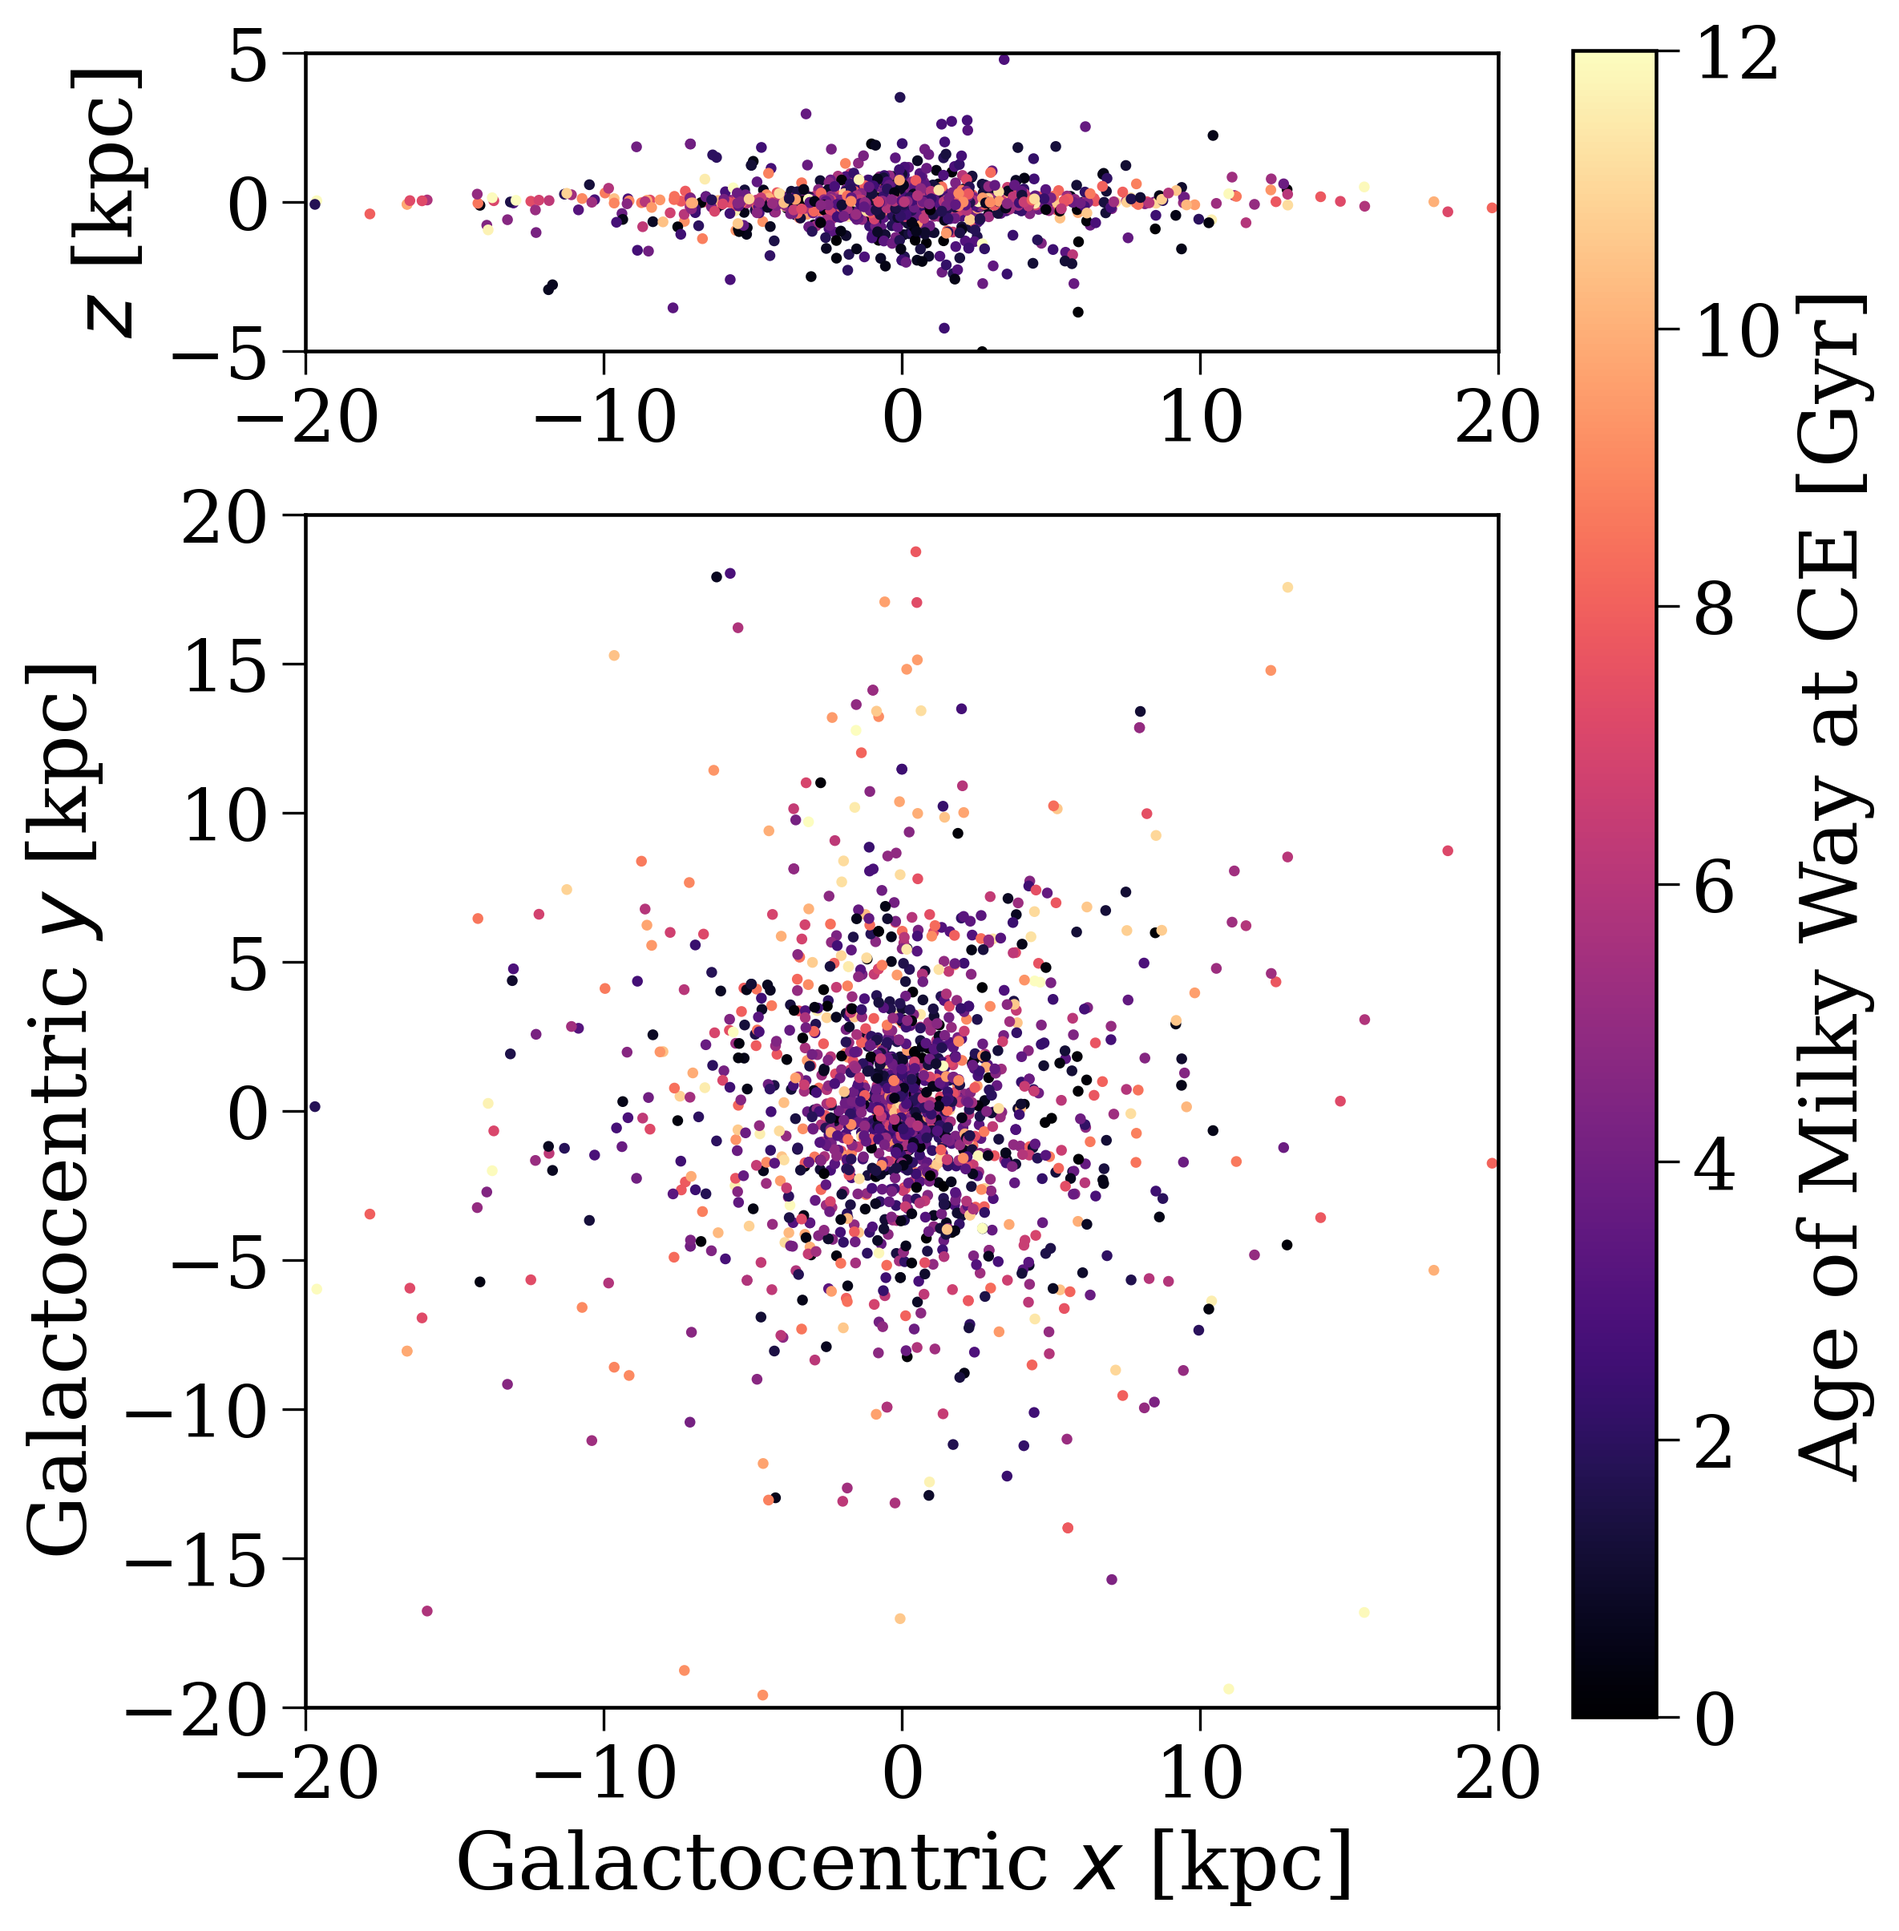
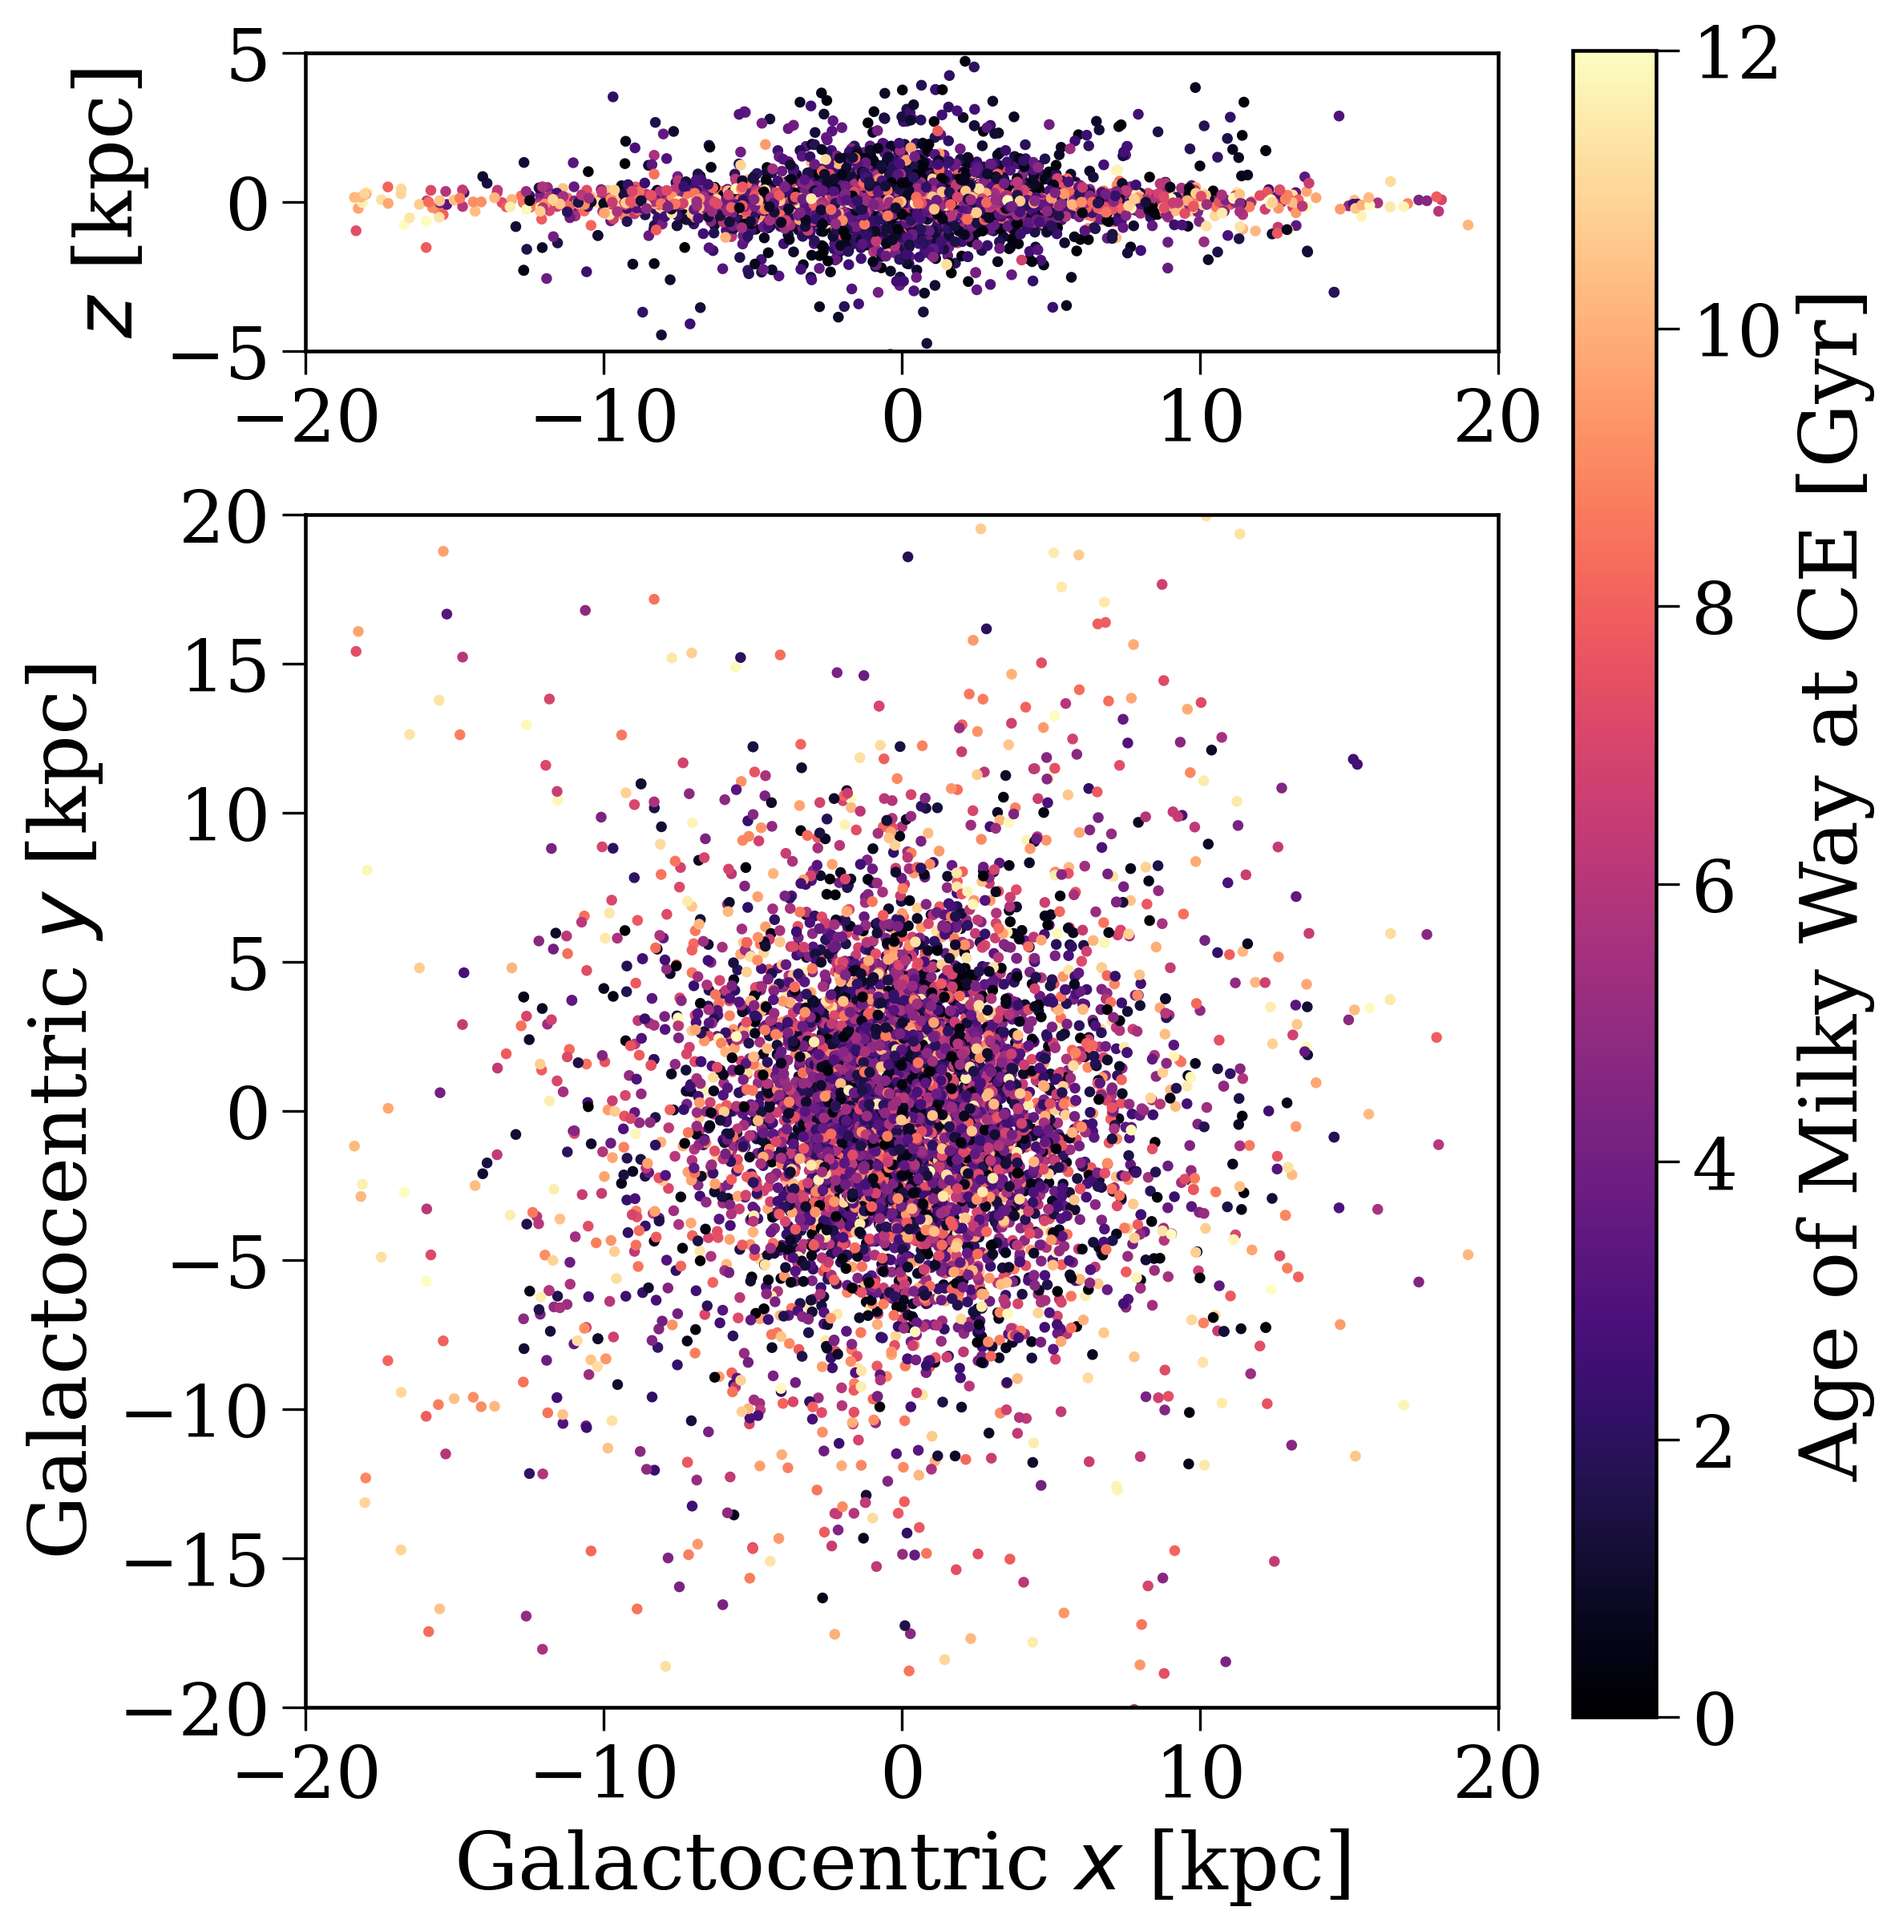
part 3 done

diff --git a/docs/_static/custom.css b/docs/_static/custom.css
@@ -10,6 +10,12 @@
     --pst-font-family-heading: var(--font-name)!important;
 }
 
+/* make dropdowns that are 'danger' in dark mode look better */
+html[data-theme="dark"] {
+    --pst-color-danger: #ea96a3!important;
+    --sd-color-danger-bg: #bd5360!important;
+}
+
 .navbar-brand img {
     max-width: min(100%, 150px);
 }

diff --git a/docs/pages/labs/astronuc/part-3.rst b/docs/pages/labs/astronuc/part-3.rst
@@ -20,7 +20,7 @@ First things first, let's make a slightly different population, which preferenti
     import cogsworth
 
     p = cogsworth.pop.Population(
-        n_binaries=2000,
+        n_binaries=10_000,
         use_default_BSE_settings=True,
         final_kstar1=[13, 14],          # aim to sample systems that produce a NS/BH
         final_kstar2=[13, 14],          # same for secondary star
@@ -239,6 +239,221 @@ And now we can plot the positions of these common-envelope events in the galaxy!
 Tasks
 *****
 
-Now it's your turn to do the same for supernovae! The code from the demo above should be helpful for this
+Now it's your turn to do the same for supernovae! The code from the demo above should be helpful for this :)
 
+.. admonition:: Task 3.1
+    :class: admonition-task
 
+    Create a population like the one above (~10000 binaries, that preferentially samples higher mass binaries). Write a mask for the ``bpp`` table that selects only the rows corresponding to supernova events. Note that supernovae are labelled as either ``evol_type == 15`` (primary star supernova) or ``evol_type == 16`` (secondary star supernova).
+
+    It will be useful to know whether a supernova corresponds to the primary or secondary star, so create two separate masks for these.
+
+    .. dropdown:: Click here to reveal the answer
+        :color: danger
+        
+        .. code-block:: python
+
+            import cogsworth
+
+            p = cogsworth.pop.Population(
+                n_binaries=2000,
+                use_default_BSE_settings=True,
+                final_kstar1=[13, 14],          # aim to sample systems that produce a NS/BH
+                final_kstar2=[13, 14],          # same for secondary star
+            )
+            p.create_population()
+            
+            primary_sn = p.bpp["evol_type"] == 15
+            secondary_sn = p.bpp["evol_type"] == 16
+            sn_mask = primary_sn | secondary_sn
+
+.. admonition:: Task 3.2
+    :class: admonition-task
+
+    Now make a histogram that shows the distribution of supernova times in the frame of the binary. Ensure to create separate histograms for primary and secondary supernovae.
+
+    Use the same bins for both histograms and set ``density=True`` in both calls to ``plt.hist`` so that you can compare the shapes of the distributions and not just the number of supernovae.
+
+    What do you notice about the timing of primary vs. secondary supernovae? Are they the same? Why/why not?
+
+    .. dropdown:: Hint
+        :color: info
+
+        Try constructing the bins before you call ``plt.hist``. You can use ``np.linspace`` to create an array of bin edges that go from 0 to 200 Myr (since most supernovae occur within this time frame) and have, say, 40 bins.
+
+        .. code-block:: python
+
+            bins = np.linspace(0, 200, 40)
+
+    .. dropdown:: Click here to reveal the answer
+        :color: danger
+
+        .. code-block:: python
+
+            bins = np.linspace(0, 200, 40)
+
+            fig, ax = plt.subplots()
+
+            ax.hist(p.bpp["tphys"][primary_sn], bins=bins, density=True, label="Primary SN")
+            ax.hist(p.bpp["tphys"][secondary_sn], bins=bins, alpha=0.7, density=True, label="Secondary SN")
+            ax.set(
+                xlabel="Time in frame of binary, $t_b$ [Myr]",
+                ylabel=r"${\rm}dN/{\rm d}t_b$",
+            )
+            ax.legend()
+            plt.show()
+
+        .. figure:: ../../../_static/astronuc/sn_times_binary.png
+            :align: center
+            :width: 80%
+            :alt: Histogram of supernova times in the frame of the binary
+
+            Distribution of supernova times in the frame of the binary, with primary and secondary supernovae shown separately.
+
+        The timing of primary and secondary supernovae is slightly different. Primary supernovae typically occur earlier than secondary supernovae. This is because the primary star is initially more massive and therefore evolves faster, so it reaches the end of its life and explodes as a supernova before the secondary star does. The secondary star may also be affected by mass transfer from the primary, which can alter its evolution and delay its supernova explosion.
+
+.. admonition:: Task 3.3
+    :class: admonition-task
+
+    Now compute the timing of these supernovae in the galactic frame and make a histogram of these galactic times. Do primary and secondary supernovae have different distributions on galactic timescales? Why/why not?
+
+    .. dropdown:: Hint
+        :color: info
+
+        Remember that you can convert the supernova times to the galactic frame using the same method as for the common-envelope events. You will need to get the ``bin_num`` of each supernova event, find the corresponding index in the ``p.bin_nums`` array, and then use this index to get the birth time of the binary from ``p.initial_galaxy.tau``.
+
+        The conversion is given by:
+
+        .. math::
+
+            t_{\rm gal} = t_{\rm present} - \tau + t_{\rm sn}
+
+        where :math:`t_{\rm sn}` is the time of the supernova in the binary frame and :math:`t_{\rm present}` is the present day time in the galaxy (which is 12 Gyr by default, but is stored in the :attr:`~cogsworth.pop.Population.max_ev_time` attribute).
+
+    .. dropdown:: Click here to reveal the answer
+        :color: danger
+
+        .. code-block:: python
+
+            # get the bin_nums of the supernova events
+            primary_sn_bin_nums = p.bpp["bin_num"][primary_sn]
+            secondary_sn_bin_nums = p.bpp["bin_num"][secondary_sn]
+
+            # get the indices of these bin_nums in the p.bin_nums array
+            primary_sn_indices = np.searchsorted(p.bin_nums, primary_sn_bin_nums)
+            secondary_sn_indices = np.searchsorted(p.bin_nums, secondary_sn_bin_nums)
+
+            # use these indices to get tau
+            primary_sn_tau = p.initial_galaxy.tau[primary_sn_indices]
+            secondary_sn_tau = p.initial_galaxy.tau[secondary_sn_indices]
+
+            # compute the galactic times
+            primary_sn_t_gal = p.max_ev_time - primary_sn_tau + p.bpp["tphys"][primary_sn].values * u.Myr
+            secondary_sn_t_gal = p.max_ev_time - secondary_sn_tau + p.bpp["tphys"][secondary_sn].values * u.Myr
+
+            bins = np.linspace(0, 12, 20)
+            fig, ax = plt.subplots()
+            ax.hist(primary_sn_t_gal.to(u.Gyr).value, bins=bins, density=True,
+                    label="Primary SN")
+            ax.hist(secondary_sn_t_gal.to(u.Gyr).value, bins=bins, alpha=0.7,
+                    density=True, label="Secondary SN")
+            ax.set(
+                xlabel="Age of Milky Way at SN, $t_{\rm gal}$ [Gyr]",
+                ylabel=r"${\rm}dN/{\rm}dt_{\rm gal}$",
+            )
+            ax.legend()
+            plt.show()
+
+        .. figure:: ../../../_static/astronuc/sn_times_galaxy.png
+            :align: center
+            :width: 80%
+            :alt: Histogram of supernova times in the frame of the galaxy
+
+            Distribution of supernova times in the frame of the galaxy, with primary and secondary supernovae shown separately.
+
+        The distributions of primary and secondary supernovae on galactic timescales are quite similar. Most of the supernovae (both primary and secondary) occur on short times in the context of the galaxy, so the main driver of the distribution on galactic timescales is the star formation history of the galaxy.
+    
+.. margin::
+
+    One difference from above is that you may now have a situation where a binary has disrupted due to the supernova kick, so the secondary may be on a different orbit. ``cogsworth`` handles this and you can use ``p.primary_orbits`` and ``p.secondary_orbits`` to get the orbits of the primary and secondary stars, respectively, at every time step. So make sure to use the correct one for each supernova!
+
+.. admonition:: Task 3.4
+    :class: admonition-task
+
+    Last but not least, let's find the positions of these supernovae in the galaxy!
+
+    Follow the same method as above to find the positions of these supernovae in the galaxy and make a plot of these positions like the one above (both types together, :math:`x` and :math:`y` limits of 30 kpc and :math:`z` limits of 7.5 kpc should work well for this).
+
+    .. dropdown:: Hint
+        :color: info
+
+        You can use the same method as above, just doing it twice, once for the primaries (using you primary SN mask and ``p.primary_orbits``) and once for the secondaries (using your secondary SN mask and ``p.secondary_orbits``).
+
+    .. dropdown:: Click here to reveal the answer
+        :color: danger
+
+        .. code-block:: python
+
+            primary_sn_positions = np.zeros((len(primary_sn), 3)) * u.kpc
+            secondary_sn_positions = np.zeros((len(secondary_sn), 3)) * u.kpc
+
+            for i in range(len(primary_sn_indices)):
+                # find the corresponding orbit
+                primary_sn_orbit = p.primary_orbits[primary_sn_indices[i]]
+
+                # compute the last timestep where orbit.t is less than primary_sn_t_gal[i]
+                closest_time_index = np.where(primary_sn_orbit.t < primary_sn_t_gal[i])[0][-1]
+
+                # get the position of the binary at this time
+                primary_sn_positions[i] = primary_sn_orbit.pos.xyz[:, closest_time_index]
+
+            # same for secondaries
+            for i in range(len(secondary_sn_indices)):
+                secondary_sn_orbit = p.secondary_orbits[secondary_sn_indices[i]]
+                closest_time_index = np.where(secondary_sn_orbit.t < secondary_sn_t_gal[i])[0][-1]
+                secondary_sn_positions[i] = secondary_sn_orbit.pos.xyz[:, closest_time_index]
+
+            fig, axes = plt.subplots(2, 1, figsize=(8, 9), gridspec_kw={"height_ratios": [1, 4]})
+            for pos, times in zip(
+                [primary_sn_positions, secondary_sn_positions],
+                [primary_sn_t_gal, secondary_sn_t_gal],
+            ):
+
+                XMAX = 30
+                ZMAX = 7.5
+
+                axes[0].scatter(
+                    pos[:, 0], pos[:, 2],
+                    c=times.to(u.Gyr).value, s=5,
+                    cmap="magma", vmin=0, vmax=12
+                )
+
+                axes[1].scatter(
+                    pos[:, 0], pos[:, 1],
+                    c=times.to(u.Gyr).value, s=5,
+                    cmap="magma", vmin=0, vmax=12
+                )
+            axes[0].set(
+                ylabel="$z$ [kpc]",
+                xlim=(-XMAX, XMAX),
+                ylim=(-ZMAX, ZMAX),
+                aspect="equal",
+            )
+            axes[1].set(
+                xlabel="Galactocentric $x$ [kpc]",
+                ylabel="Galactocentric $y$ [kpc]",
+                xlim=(-XMAX, XMAX),
+                ylim=(-XMAX, XMAX),
+                aspect="equal",
+            )
+
+            fig.colorbar(axes[0].collections[0], ax=axes, label="Age of Milky Way at SN [Gyr]")
+
+            plt.show()
+
+        .. figure:: ../../../_static/astronuc/sn_positions.png
+            :align: center
+            :width: 80%
+            :alt: Positions of supernovae in the galaxy
+
+            Positions of supernovae in the galaxy. The colour indicates the age of the Milky Way at which the supernova occurs.
